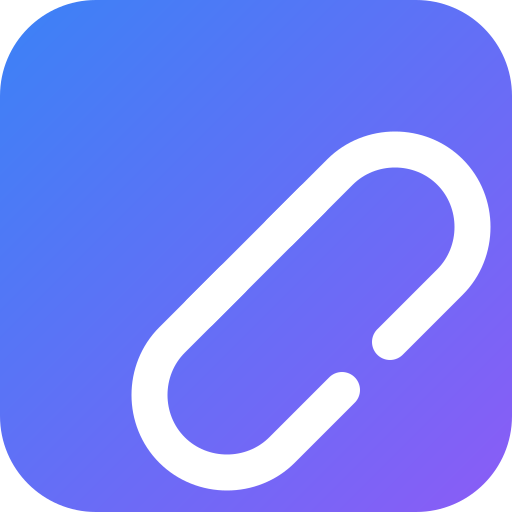
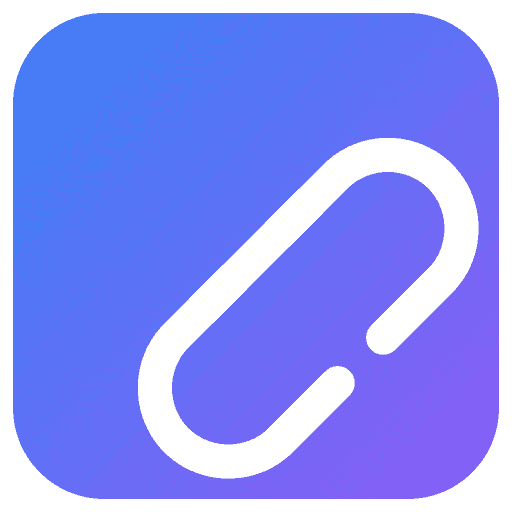
build(pwa): migrate @vite-pwa/assets-generator to v2.0.0 and adopt minimal-2023 preset

Changed region(s): [[0.0, 0.0, 1.0, 1.0], [0.6562, 0.2812, 0.6875, 0.3125], [0.2812, 0.6562, 0.3125, 0.6875]]

diff --git a/client/vite.config.js b/client/vite.config.js
@@ -114,7 +114,15 @@ export default defineConfig(async ({ mode }) => {
           cleanupOutdatedCaches: true,
           // Use network-first for HTML navigation requests
           runtimeCaching: []        },
-        includeAssets: ['favicon.svg', 'favicon-32x32.png', 'favicon-16x16.png', 'apple-touch-icon.png', 'robots.txt'],
+        includeAssets: [
+          'favicon.ico',
+          'favicon.svg',
+          'favicon-32x32.png',
+          'favicon-16x16.png',
+          'apple-touch-icon.png',
+          'apple-touch-icon-180x180.png',
+          'robots.txt',
+        ],
         manifest: {
           name: 'Link Snap',
           short_name: 'LinkSnap',
@@ -129,24 +137,27 @@ export default defineConfig(async ({ mode }) => {
           scope: '/',
           icons: [
             {
+              src: 'pwa-64x64.png',
+              sizes: '64x64',
+              type: 'image/png',
+            },
+            {
               src: 'pwa-192x192.png',
               sizes: '192x192',
               type: 'image/png',
-              purpose: 'any'
             },
             {
               src: 'pwa-512x512.png',
               sizes: '512x512',
               type: 'image/png',
-              purpose: 'any'
             },
             {
-              src: 'pwa-512x512.png',
+              src: 'maskable-icon-512x512.png',
               sizes: '512x512',
               type: 'image/png',
-              purpose: 'maskable'
-            }
-          ]
+              purpose: 'maskable',
+            },
+          ],
         },
         devOptions: {
           enabled: false // Disable PWA in development to avoid caching issues

diff --git a/client/index.html b/client/index.html
@@ -28,9 +28,9 @@
     <meta name="theme-color" content="#8b5cf6" />
 
     <!-- Favicon & Icons -->
-    <link rel="icon" type="image/svg+xml" href="/favicon.svg" />
-    <link rel="icon" type="image/png" sizes="32x32" href="/favicon-32x32.png" />
-    <link rel="icon" type="image/png" sizes="16x16" href="/favicon-16x16.png" />
+    <link rel="icon" href="/favicon.ico" sizes="48x48" />
+    <link rel="icon" href="/favicon.svg" sizes="any" type="image/svg+xml" />
+    <link rel="apple-touch-icon" href="/apple-touch-icon-180x180.png" />
 
     <!-- Open Graph / Facebook -->
     <meta property="og:type" content="website" />

diff --git a/client/pwa-assets.config.js b/client/pwa-assets.config.js
@@ -1,0 +1,12 @@
+import {
+  defineConfig,
+  minimal2023Preset,
+} from '@vite-pwa/assets-generator/config';
+
+export default defineConfig({
+  headLinkOptions: {
+    preset: '2023',
+  },
+  preset: minimal2023Preset,
+  images: ['public/favicon.svg'],
+});
